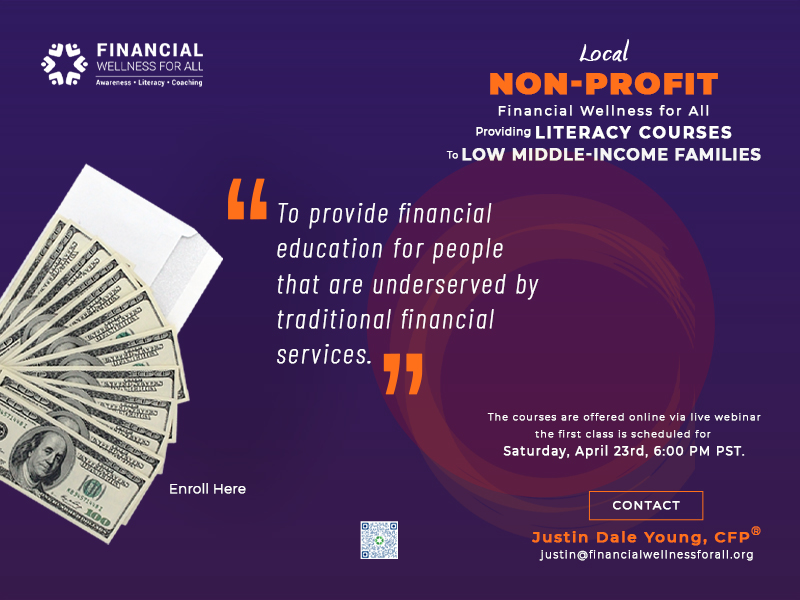
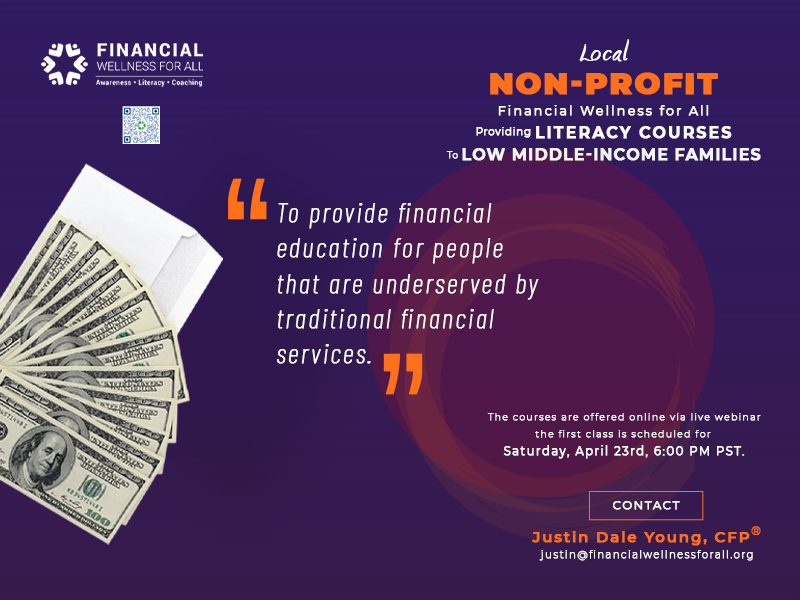
update

Changed region(s): [[0.125, 0.15, 0.2188, 0.24], [0.4375, 0.87, 0.5, 0.93], [0.2188, 0.81, 0.3125, 0.84]]

diff --git a/src/Pages/Home/EventPoster.js b/src/Pages/Home/EventPoster.js
@@ -2,11 +2,11 @@ import React from 'react';
 import { Container, Image } from 'react-bootstrap';
 import { Autoplay, Navigation, Pagination, EffectCube } from 'swiper';
 import { Swiper, SwiperSlide } from 'swiper/react';
-import eventPoster1 from '../../images/Event/Event-poster-1.jpg'
-import eventPoster2 from '../../images/Event/Event-poster-2.jpg'
-import eventPoster3 from '../../images/Event/Event-poster-3.jpg'
-import eventPoster4 from '../../images/Event/Event-poster-4.jpg'
-import eventPoster5 from '../../images/Event/Event-poster-5.jpg'
+import eventPoster1 from '../../images/Event/EventPoster1.jpg'
+import eventPoster2 from '../../images/Event/EventPoster2.jpg'
+import eventPoster3 from '../../images/Event/EventPoster3.jpg'
+import eventPoster4 from '../../images/Event/EventPoster4.jpg'
+import eventPoster5 from '../../images/Event/EventPoster5.jpg'
 import "swiper/css";
 import "swiper/css/effect-cube";
 import "swiper/css/pagination";

diff --git a/src/Pages/Style/Style.css b/src/Pages/Style/Style.css
@@ -938,8 +938,7 @@ hr{
 
 
 .poserImage {
-    width: 50%;
-    height: 600px;
+    width: 60%;
 }
     
 
@@ -991,6 +990,14 @@ hr{
   background-color: #ff701a;
   padding: 6px 18px;
   font-weight: 700;
+}
+.enroll {
+    font-size: 12px;
+    font-weight: bold;
+    position: absolute;
+    bottom: 65px;
+    left: 21%;
+    color: white;
 }
 
 
@@ -1484,6 +1491,10 @@ hr{
     font-size: 7px;
     padding: 3px 12px;
   }
+  .enroll {
+    font-size: 7px;
+    bottom: 35px;
+} 
 }
 
 
@@ -1565,7 +1576,10 @@ hr{
         font-size: 7px;
         padding: 2px 2px;
     }
-        
+    .enroll {
+        font-size: 7px;
+        bottom: 30px;
+    } 
 }
 
 /* ============================================================ */

diff --git a/src/Pages/Popup/Popup.js b/src/Pages/Popup/Popup.js
@@ -11,6 +11,7 @@ function Popup(props) {
                 { props.children}
 
                 <Image src={event1} alt="EventPoster" className='posterImg'/>
+                <p className='enroll'>Enroll Here</p>
                 <a href="http://fwfacourse.com/" target="_blank" rel='noreferrer' className='webLink'>FWFACourse.com</a>
             </div>
         </div>
